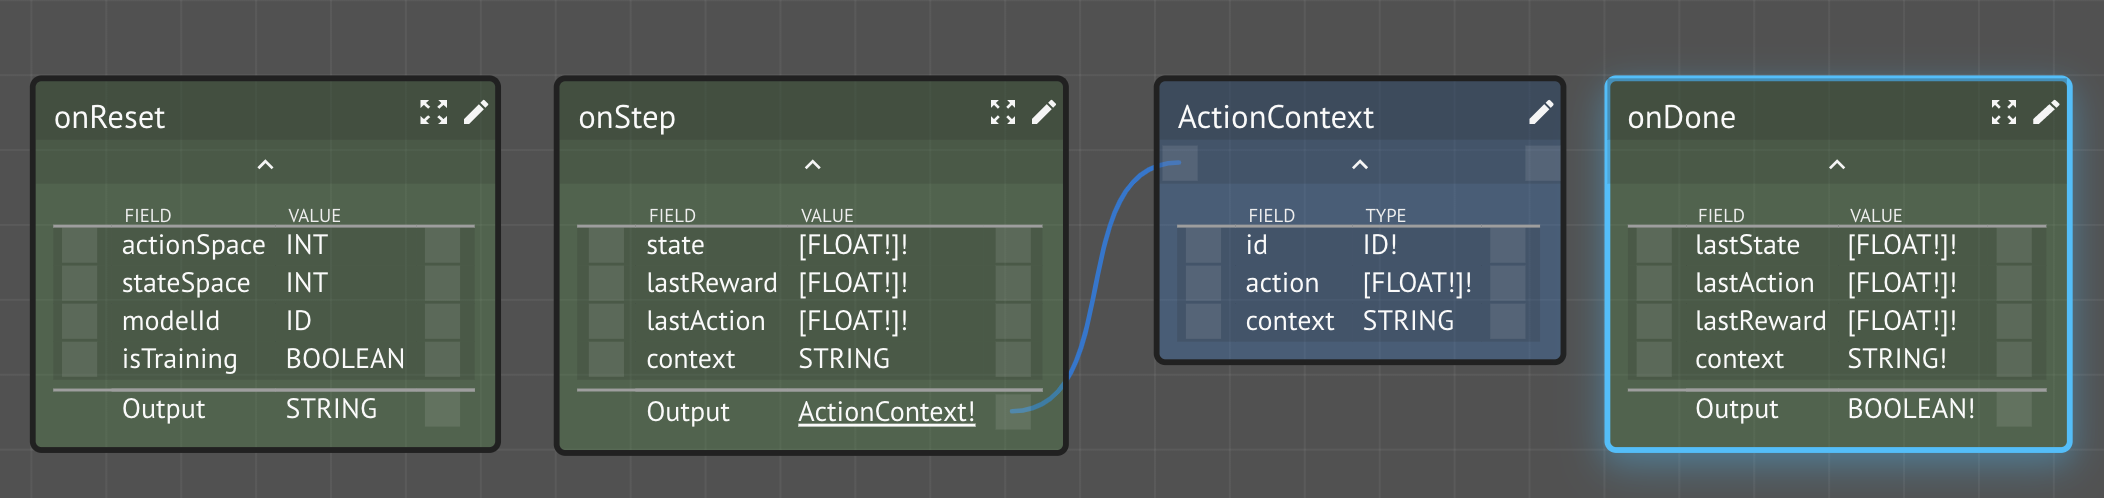
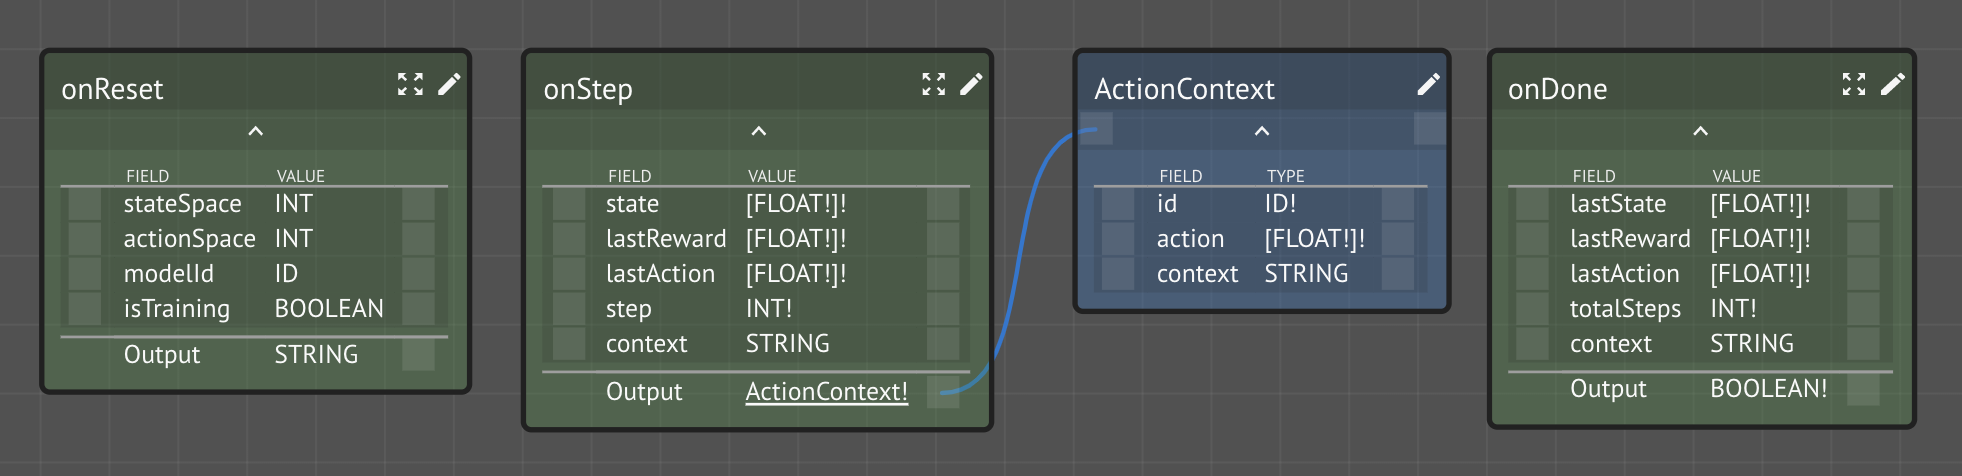
GitBook: [3.2.1] 6 pages and 3 assets modified

Changed region(s): [[0.0, 0.0882, 0.9949, 0.9706]]

diff --git a/product-guide/reference-guide/ai-simulator-framework/base-agent.md b/product-guide/reference-guide/ai-simulator-framework/base-agent.md
@@ -6,7 +6,20 @@ The "Base" agent [workspace](https://lastknowngood.knowledge.maana.io/workspace/
 
 ## onReset
 
-Simulators will first call `onReset`, allowing you to perform any initialization you require and to return a opaque "context" blob \(in the form of a `String`\).  Generally, the context you return is a serialized Kind instance used to maintain the model state \(or a reference to it\).  This context object will be passed back to you on subsequence calls from the simulator.
+Simulators will first call `onReset`, allowing you to perform any initialization you require and to return a opaque "context" blob \(in the form of a `String`\).
+
+#### Input 
+
+* `stateSpace` is the number of dimensions of the state vector representing the simulation domain \(i.e., the world\)
+* `actionSpace` is the number of dimensions of the action vector representing how the agent affects the world \(i.e., does things\)
+* `modelId` is the preferred identity of the model to create \(if training\) or use \(if performing\)
+* `isTraining` indicates whether or not the simulation is running in Training or Performing mode, thus allowing the agent to perform accordingly
+
+#### Output
+
+* `String` representing the agent's serialized "context blob" that will be returned on all subsequent calls
+
+Generally, the context you return is a serialized Kind instance used to maintain the model state \(or a reference to it\).  This context object will be passed back to you on subsequence calls from the simulator.
 
 ## onStep
 

diff --git a/platform-features/ai-simulator-framework.md b/platform-features/ai-simulator-framework.md
@@ -1,2 +1,12 @@
+---
+description: A simulator host for the creation of Q-based intelligent agents
+---
+
 # Maana Q AI Simulator Framework
+
+![Extensible open source simulator host](../.gitbook/assets/ai-simulator.png)
+
+Simulation is an important tool in the development of intelligent systems and agents that are able to reason about their world, reason, decide on "best" actions, and learn from history.  Simulators are able to constrain the problem being solved and operate under controlled, repeatable circumstances.  Simulations are not limited by what they simulate: physics, driving, strategy, planning, ...
+
+Maana has developed a simulator host user experience along with several ready-to-use simulators \(CARLA, OpenAI Gym, and StarCraft II\), and a number of example agents \(GOAP, Bayes, Q Learning, Deep Q Network\).  These can be explored further in [AI Simulator Framework](../product-guide/reference-guide/ai-simulator-framework/) reference guide and [agent training examples](../product-guide/reference-guide/ai-simulator-framework/simulators/openai-gym/taxi-v3-environment.md).
 

diff --git a/training/advanced/inference/logical-inference-and-ai-planning.md b/training/advanced/inference/logical-inference-and-ai-planning.md
@@ -8,5 +8,7 @@ description: >-
 
 [Goal-Oriented Action Planning \(GOAP\)](http://alumni.media.mit.edu/~jorkin/goap.html) is a simple, but popular AI planner that uses logical chaining to achieve goals by performing a sequence of actions that change the world state \(from preconditions to postconditions\).  States are generally boolean conditions and actions can have associated costs and the planner will find the cheapest sequence.
 
-For this exercise, we are going to use the [Maana Q AI Simulator framework](../../../product-guide/reference-guide/ai-simulator-framework/).  Please take a few minutes to familiarize yourself with its purpose and operation.
+## Setup
+
+For this exercise, we are going to use the [Maana Q AI Simulator framework](../../../product-guide/reference-guide/ai-simulator-framework/).  Please take a few minutes to familiarize yourself with its purpose and operation.  Clone the "Random Taxi-v3 Agent" workspace and configure your OpenAI Gym simulator for the Taxi-v3 environment using your cloned agent's service URI.  \(Leave the token field blank.\)
 

diff --git a/product-guide/reference-guide/ai-simulator-framework/README.md b/product-guide/reference-guide/ai-simulator-framework/README.md
@@ -8,6 +8,8 @@ description: >-
 
 When developing solutions to complex problems, it often necessary to create simplified circumstances in which to develop and test.  We have provided a simulation host that can be extended to drive various popular and custom simulators, each with their own environments and protocols.  The purpose of the simulation host is to provide a general framework for using simulators with Q-based Agents that reason about and take beneficial actions.
 
+![](../../../.gitbook/assets/ai-simulator.png)
+
 Each simulator is free to redefine its Agent protocol to address the specific needs, therefore, the protocol is primarily a suggestion.  All simulators will follow the basic flow of:
 
 * `onReset` - allows the agent to initialize for a simulation run

diff --git a/SUMMARY.md b/SUMMARY.md
@@ -171,6 +171,7 @@
     * [Active Learning](training/advanced/learning/part-3-active-learning.md)
     * [Reinforcement Learning: Q-Learning with Open AI Taxi](training/advanced/learning/reinforcement-learning-q-learning-with-open-ai-taxi.md)
     * [Reinforcement Learning: Deep Q-Network \(DQN\) with Open AI Taxi](training/advanced/learning/reinforcement-learning-deep-q-network-dqn-with-open-ai-taxi.md)
+    * [Challenge](training/advanced/learning/challenge.md)
 
 ## MAANA Q COOKBOOK
 

diff --git a/training/advanced/learning/challenge.md b/training/advanced/learning/challenge.md
@@ -1,0 +1,2 @@
+# Challenge
+
